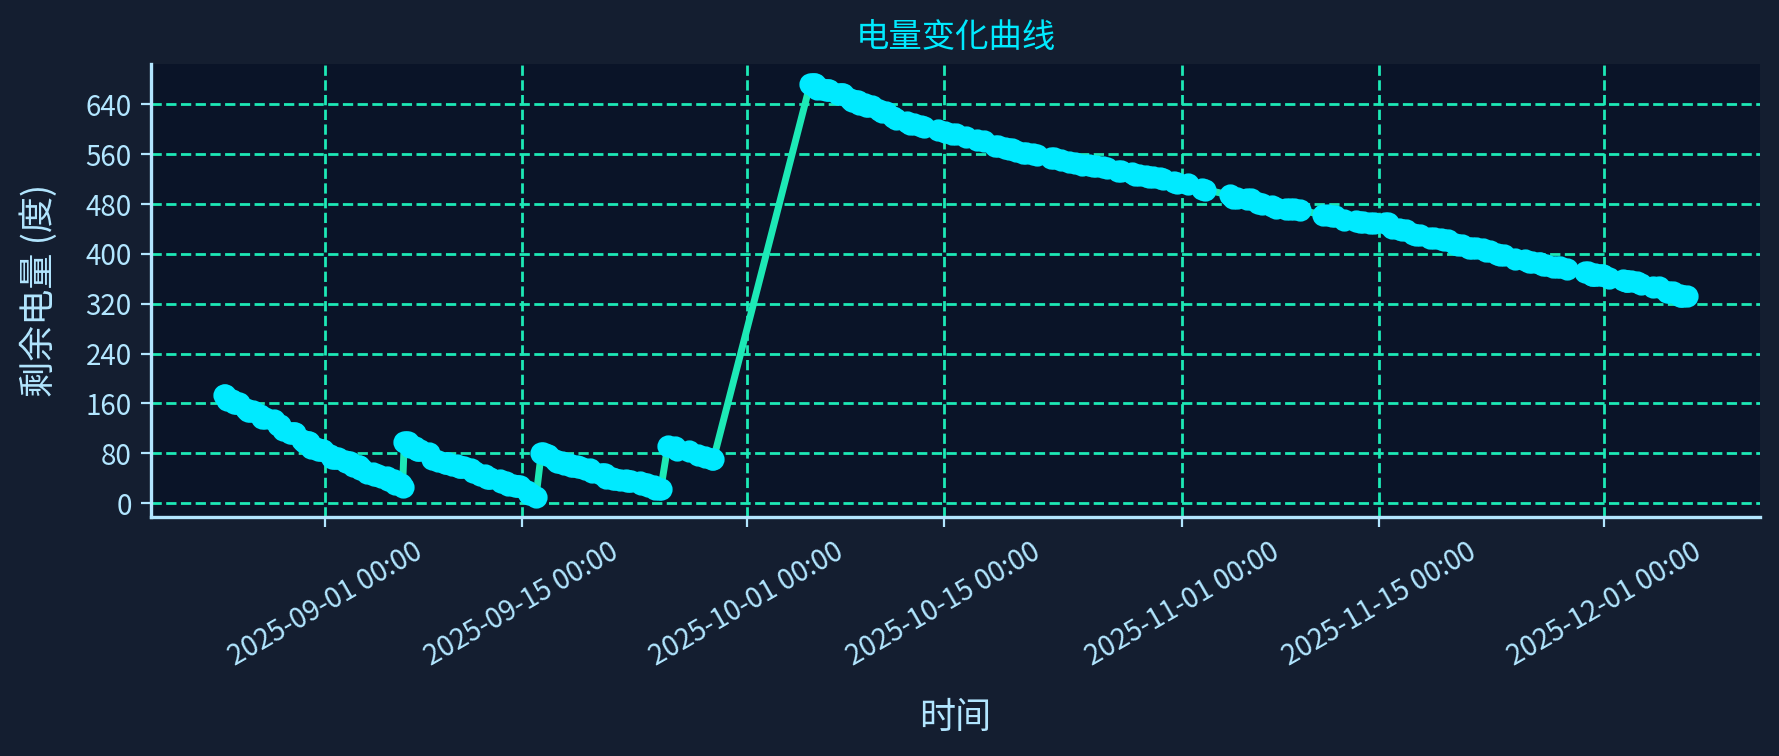
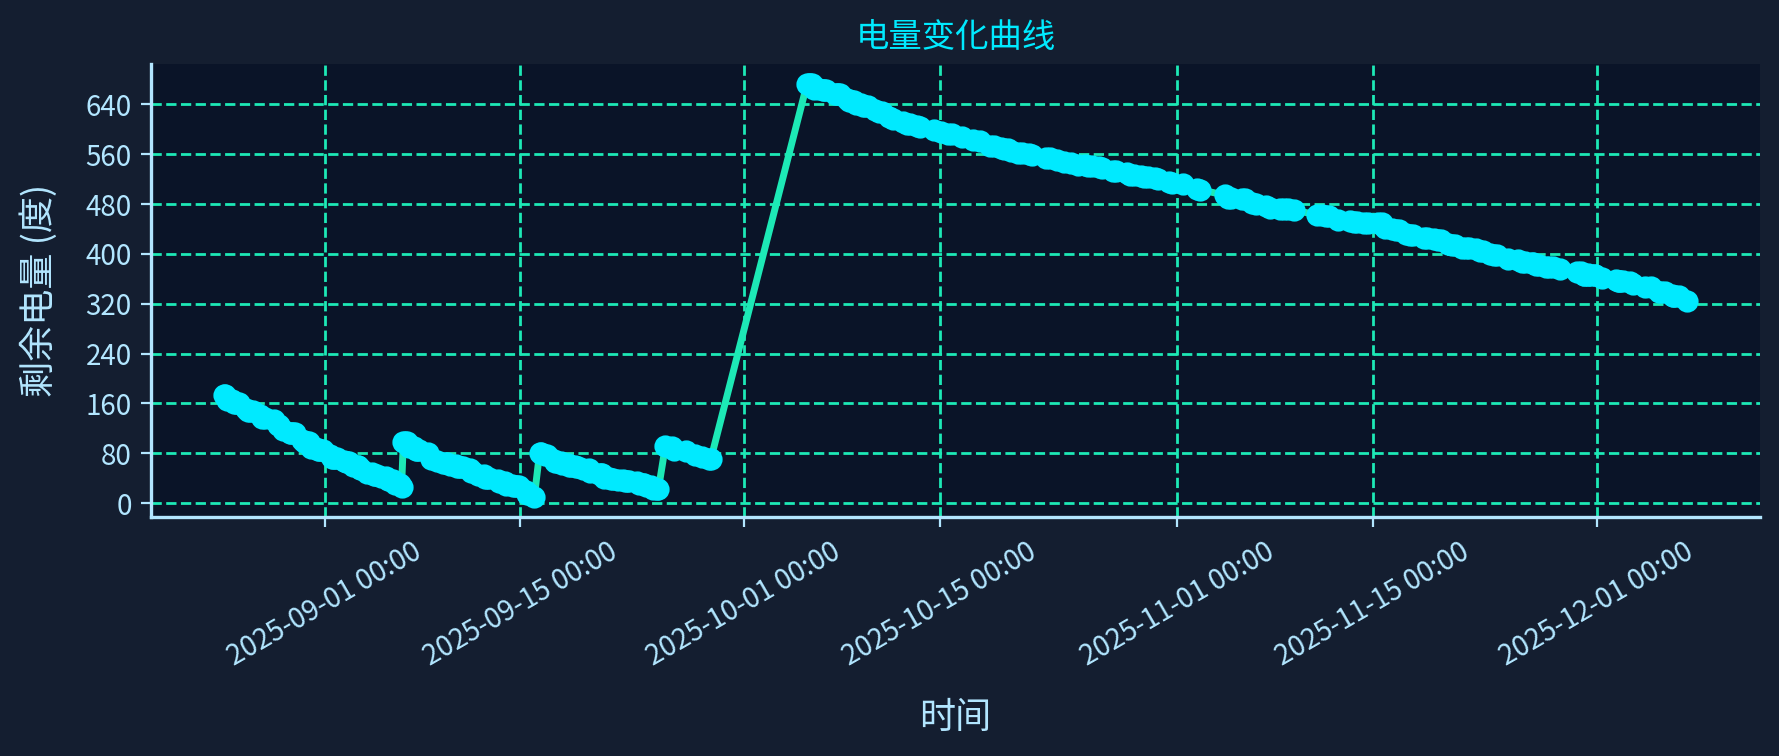
Auto update: data (run 19997935305)

diff --git a/data/debug_page_source.html b/data/debug_page_source.html
@@ -2,7 +2,7 @@
     <meta http-equiv="Content-Type" content="text/html; charset=UTF-8">
     <meta http-equiv="X-UA-Compatible" content="IE=edge">
     <meta name="viewport" content="width=device-width, initial-scale=1, user-scalable=no">
-    <meta name="_csrf" content="922ced0e-0193-4a71-822e-c3562e2bd9a3">
+    <meta name="_csrf" content="974a7c27-ddea-4a14-8f41-c43b13847be2">
     <meta name="_csrf_header" content="X-CSRF-TOKEN">
     <link type="image/png" href="/epay/images/nju/icon.png" rel="shortcut icon">
     <link type="text/css" rel="stylesheet" href="/epay/css/wxpage/weui.min.css">
@@ -32,7 +32,7 @@
 
 
 <body>
-<div id="app"><div class="centent"><div class="top"><div class="clearfix"><span class="fl">持卡人姓名：<i>吴相民</i></span></div> <div class="clearfix"><span class="fl">校园卡余额：<i class="green">0.63元</i></span></div></div> <div class="line"></div> <div class="cont"><div class="clearfix"><span class="fl">缴费地址：<i>仙林校区 18幢 18栋第17层1702</i></span></div> <div class="clearfix"><span class="fl">剩余电量：<i>332.43度</i><em></em></span></div> <!----> <!----></div> <div class="num clearfix"><div style="display: flex; flex-wrap: wrap;"><span class="active">10元</span><span class="">20元</span><span class="">50元</span><span class="">100元</span><span class="">200元</span><span class="">自定义</span></div></div> <div class="inputbox" style="display: none;"><input type="text" placeholder="请输入充值金额" pattern="[0-9]*" maxlength="4" id="amount"></div> <div class="footer">充值</div> <div class="desc">充值时间：每天00:05-23:55</div> <div class="wapat"><div class="wapat-inner"><div class="wapat-title">错误！</div> <div class="wapat-btn-box"><div class="wapat-btn wapat-btn-ok">确定</div></div></div></div></div></div>
+<div id="app"><div class="centent"><div class="top"><div class="clearfix"><span class="fl">持卡人姓名：<i>吴相民</i></span></div> <div class="clearfix"><span class="fl">校园卡余额：<i class="green">0.63元</i></span></div></div> <div class="line"></div> <div class="cont"><div class="clearfix"><span class="fl">缴费地址：<i>仙林校区 18幢 18栋第17层1702</i></span></div> <div class="clearfix"><span class="fl">剩余电量：<i>324.73度</i><em></em></span></div> <!----> <!----></div> <div class="num clearfix"><div style="display: flex; flex-wrap: wrap;"><span class="active">10元</span><span class="">20元</span><span class="">50元</span><span class="">100元</span><span class="">200元</span><span class="">自定义</span></div></div> <div class="inputbox" style="display: none;"><input type="text" placeholder="请输入充值金额" pattern="[0-9]*" maxlength="4" id="amount"></div> <div class="footer">充值</div> <div class="desc">充值时间：每天00:05-23:55</div> <div class="wapat"><div class="wapat-inner"><div class="wapat-title">错误！</div> <div class="wapat-btn-box"><div class="wapat-btn wapat-btn-ok">确定</div></div></div></div></div></div>
 
 
 
